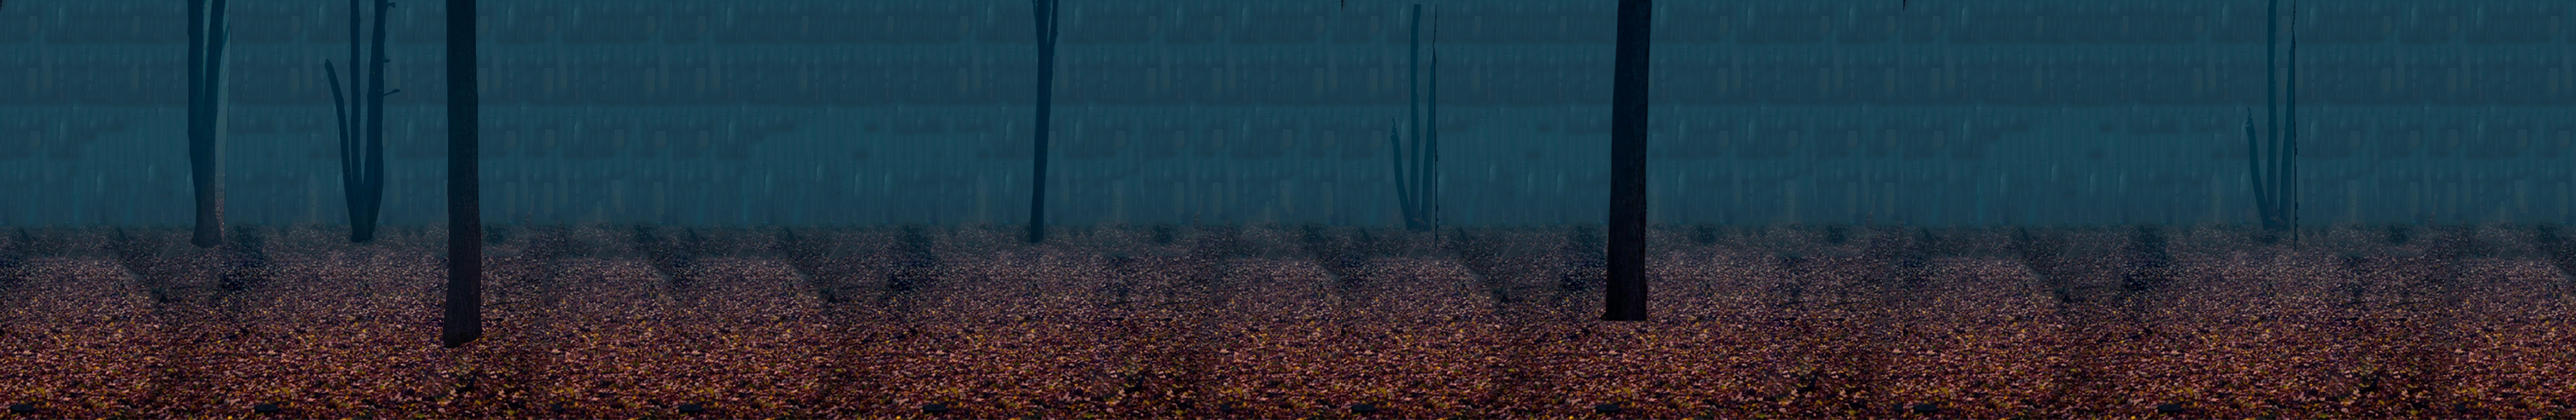
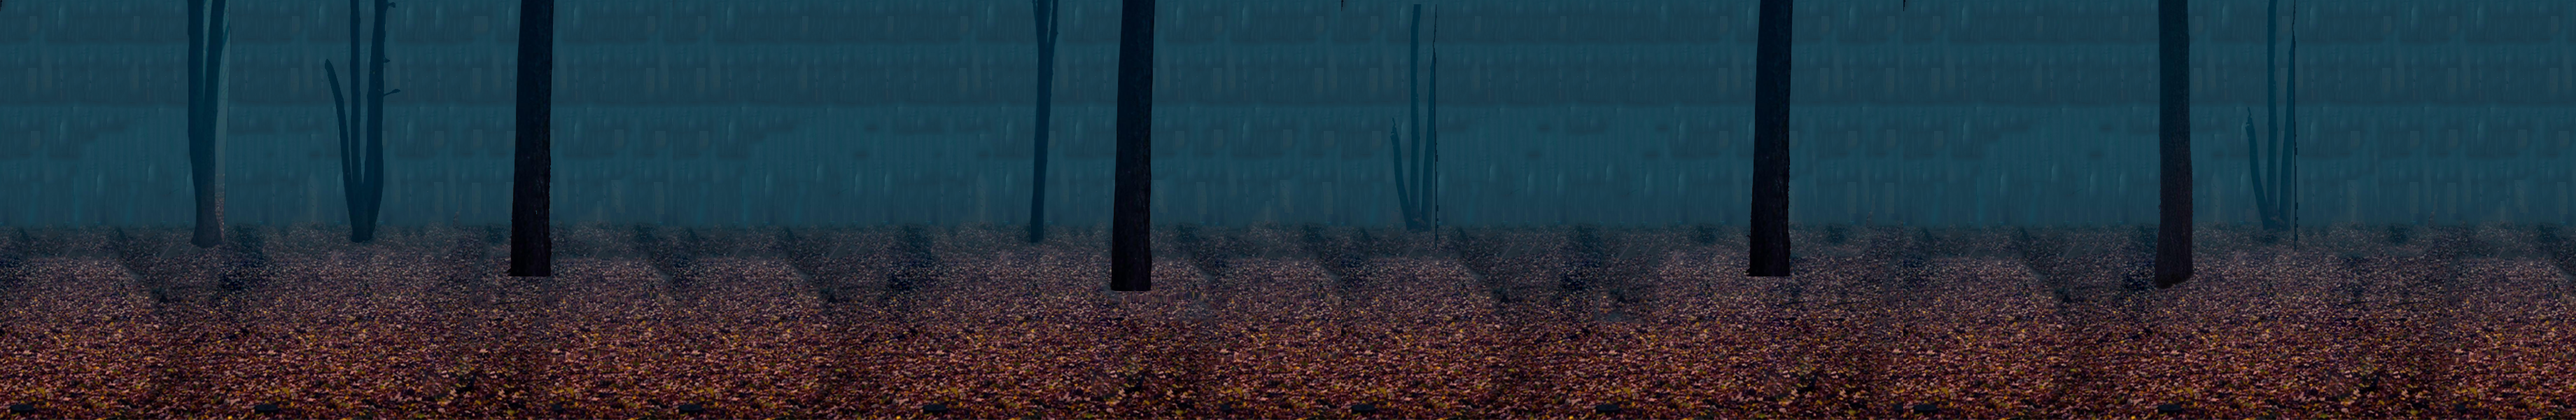
room1 stetics

diff --git a/dist/main.js b/dist/main.js
@@ -94,7 +94,7 @@
 /***/ (function(module, __webpack_exports__, __webpack_require__) {
 
 "use strict";
[2 lines of base64/hex data omitted]
 
 /***/ }),
 
@@ -106,7 +106,7 @@ eval("__webpack_require__.r(__webpack_exports__);\n/* harmony import */ var _sta
 /***/ (function(module, __webpack_exports__, __webpack_require__) {
 
 "use strict";
[2 lines of base64/hex data omitted]
 
 /***/ }),
 
@@ -130,7 +130,7 @@ eval("__webpack_require__.r(__webpack_exports__);\n/* harmony import */ var _con
 /***/ (function(module, __webpack_exports__, __webpack_require__) {
 
 "use strict";
[2 lines of base64/hex data omitted]
 
 /***/ }),
 
@@ -166,7 +166,7 @@ eval("__webpack_require__.r(__webpack_exports__);\n/* harmony import */ var _con
 /***/ (function(module, __webpack_exports__, __webpack_require__) {
 
 "use strict";
[2 lines of base64/hex data omitted]
 
 /***/ }),
 

diff --git a/src/js/room1.js b/src/js/room1.js
@@ -6,10 +6,9 @@ class room1 extends Phaser.Scene{
         super({key:'room1'})
     }
     preload(){
-        this.load.spritesheet('tiles', "../src/images/assets/tiles.png", {frameWidth: 70, frameHeight: 70});
         
-        // the player will collide with this layer
-        
+        this.load.image('ground',"../src/images/ground.png");
+        this.load.image('room1_stuff',"../src/images/room1_stuff.png");
 
 
 
@@ -51,18 +50,20 @@ class room1 extends Phaser.Scene{
         }); 
     }
     create (){
-        this.room1_passage = this.add.image(0,0,"room1_passage").setOrigin(0).setScale(1).setDepth(0);
-        this.hero = this.physics.add.sprite(450,500,"hero",12).setDepth(3).setScale(0.3).setImmovable(true);
+        
+        this.room1_passage = this.add.image(0,0,"room1_passage").setOrigin(0).setDepth(-1);
+        this.room1_stuff = this.add.image(1800,295,'room1_stuff').setDepth(1)
+        this.hero = this.physics.add.sprite(0,400,"hero",4).setDepth(0).setScale(0.2).setGravityY(0);
         /* window.steps.stop() */
-        var groundTiles = this.map.addTilesetImage('tiles');
-        this.groundLayer = this.map.createDynamicLayer('World', groundTiles, 0, 0);
+        this.groundLayer  = this.physics.add.image(0,400,"ground").setOrigin(0).setDepth(-2);
 
-        this.groundLayer.setCollisionByExclusion([-1]);
+        
         this.physics.world.bounds.width = this.groundLayer.width;
         this.physics.world.bounds.height = this.groundLayer.height;
-
-        this.hero.setBounce(0.2); // our player will bounce from items
+        
+        /* this.hero.setBounce(0.2); */ // our player will bounce from items
         this.hero.setCollideWorldBounds(true); // don't go out of the map
+        this.groundLayer.setCollideWorldBounds(true)
         this.physics.add.collider(this.groundLayer, this.hero);
 
         this.keyboard = this.input.keyboard.addKeys("W,A,S,D");
@@ -73,6 +74,7 @@ class room1 extends Phaser.Scene{
         
     }
     update(){
+        console.log(this.hero.y)
         if (this.keyboard.D.isDown === true) {
             
             this.hero.setVelocityX(+constants.hero.speed_room1);
@@ -117,7 +119,9 @@ class room1 extends Phaser.Scene{
         } else if (this.hero.body.velocity.y > 0) { //moving down
             this.hero.play("down", true);
         }
-
+        if (this.hero.y<300){
+            this.hero.y=300
+        }
     }
 }
 export default room1;

diff --git a/src/js/loading.js b/src/js/loading.js
@@ -24,6 +24,7 @@ class loading extends Phaser.Scene {
 
 
 
+
         this.load.audio('opening','../src/music/inevitable.mp3');
         this.load.audio('steps','../src/music/steps.mp3');
 
@@ -57,7 +58,7 @@ class loading extends Phaser.Scene {
         
     }
     create(){
-        this.scene.start('room2')
+        this.scene.start('room1')
        
     }
     

diff --git a/src/js/config.js b/src/js/config.js
@@ -16,7 +16,7 @@ const config = ()=>{
         physics: {
             default: 'arcade',
             arcade: {
-                gravity: { y: 600 }
+                gravity: { y: 800 }
             }
         },
         scene: [loading, menu, start1,start2,start3,main,room1,room2,room3]

diff --git a/src/js/constants.js b/src/js/constants.js
@@ -4,7 +4,7 @@ const constants = {
     },
     hero:{
         speed:100,
-        speed_room1:150
+        speed_room1:250
     }
 }
 export default constants
